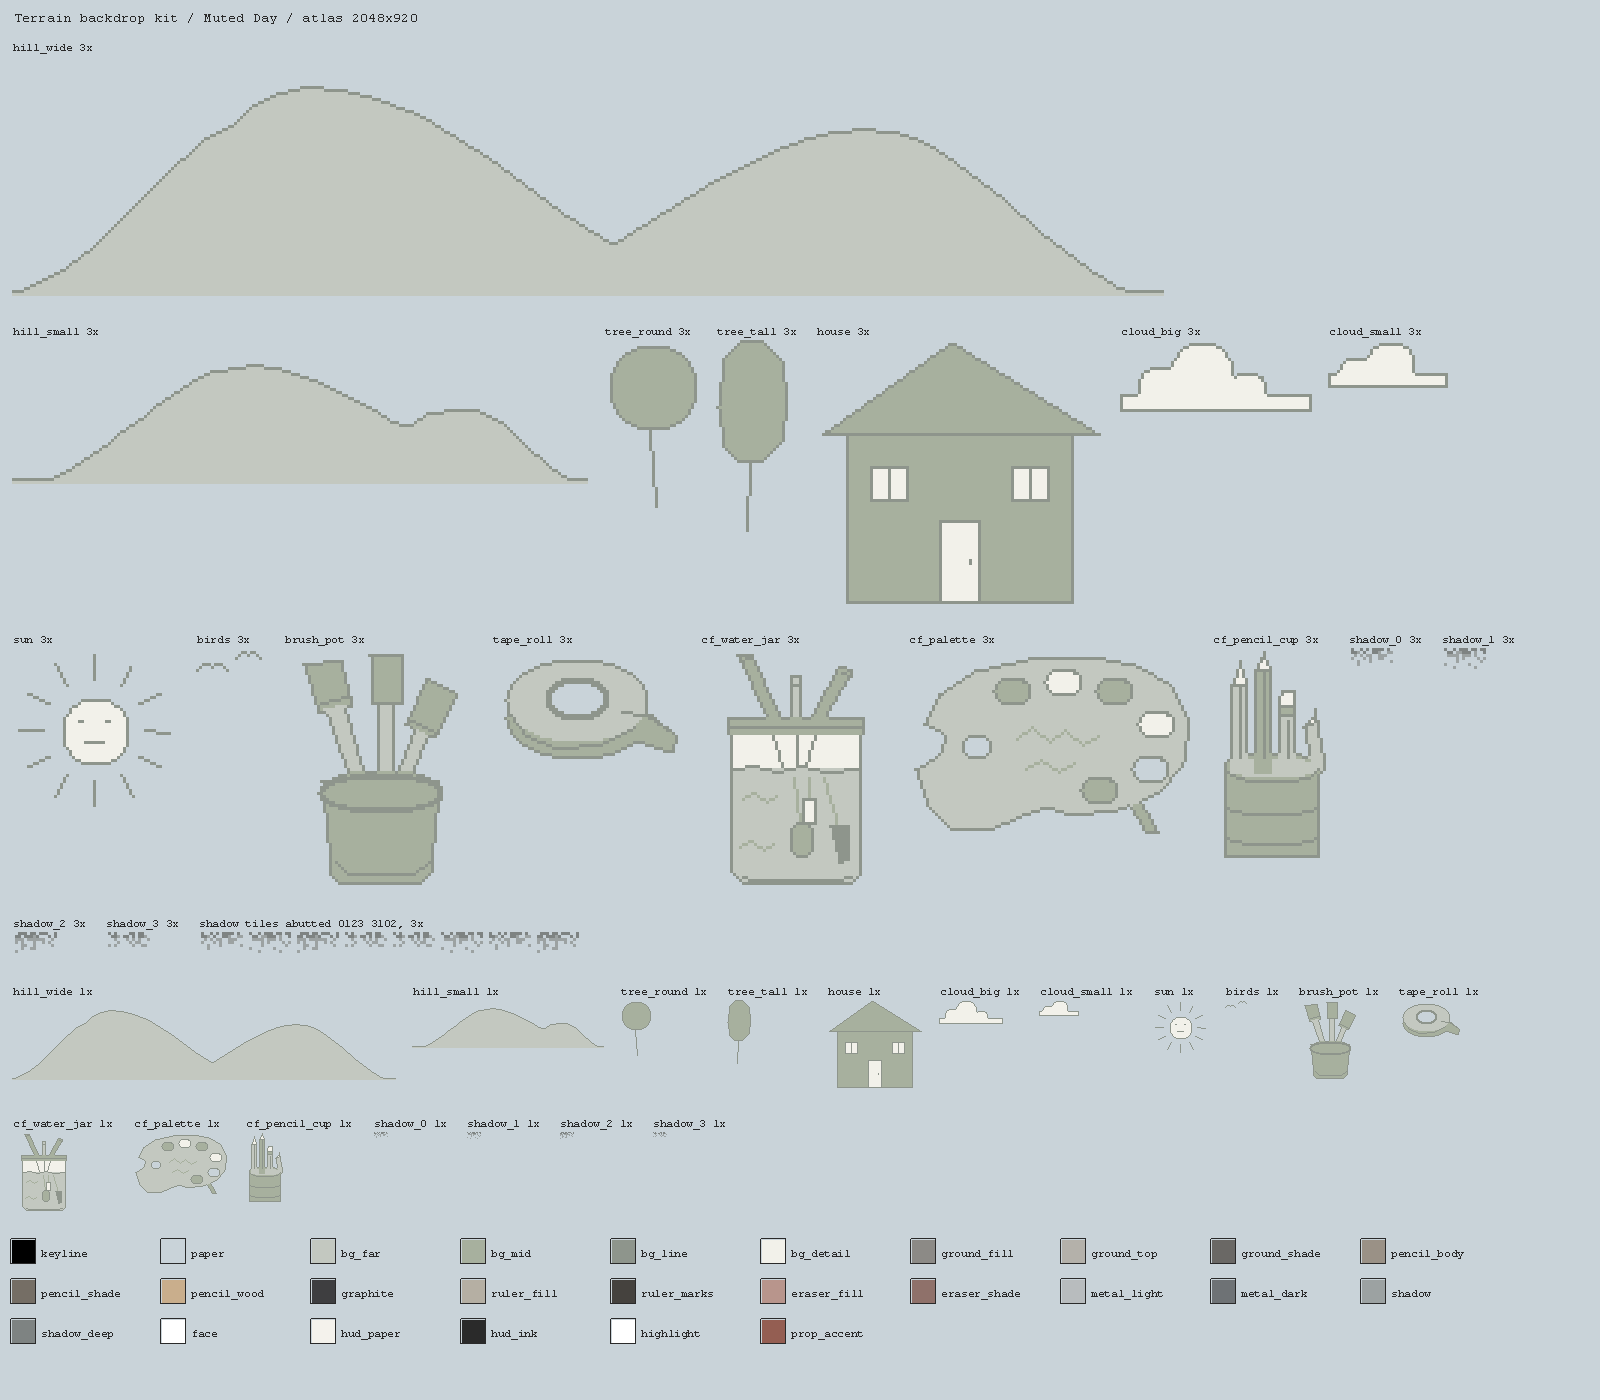
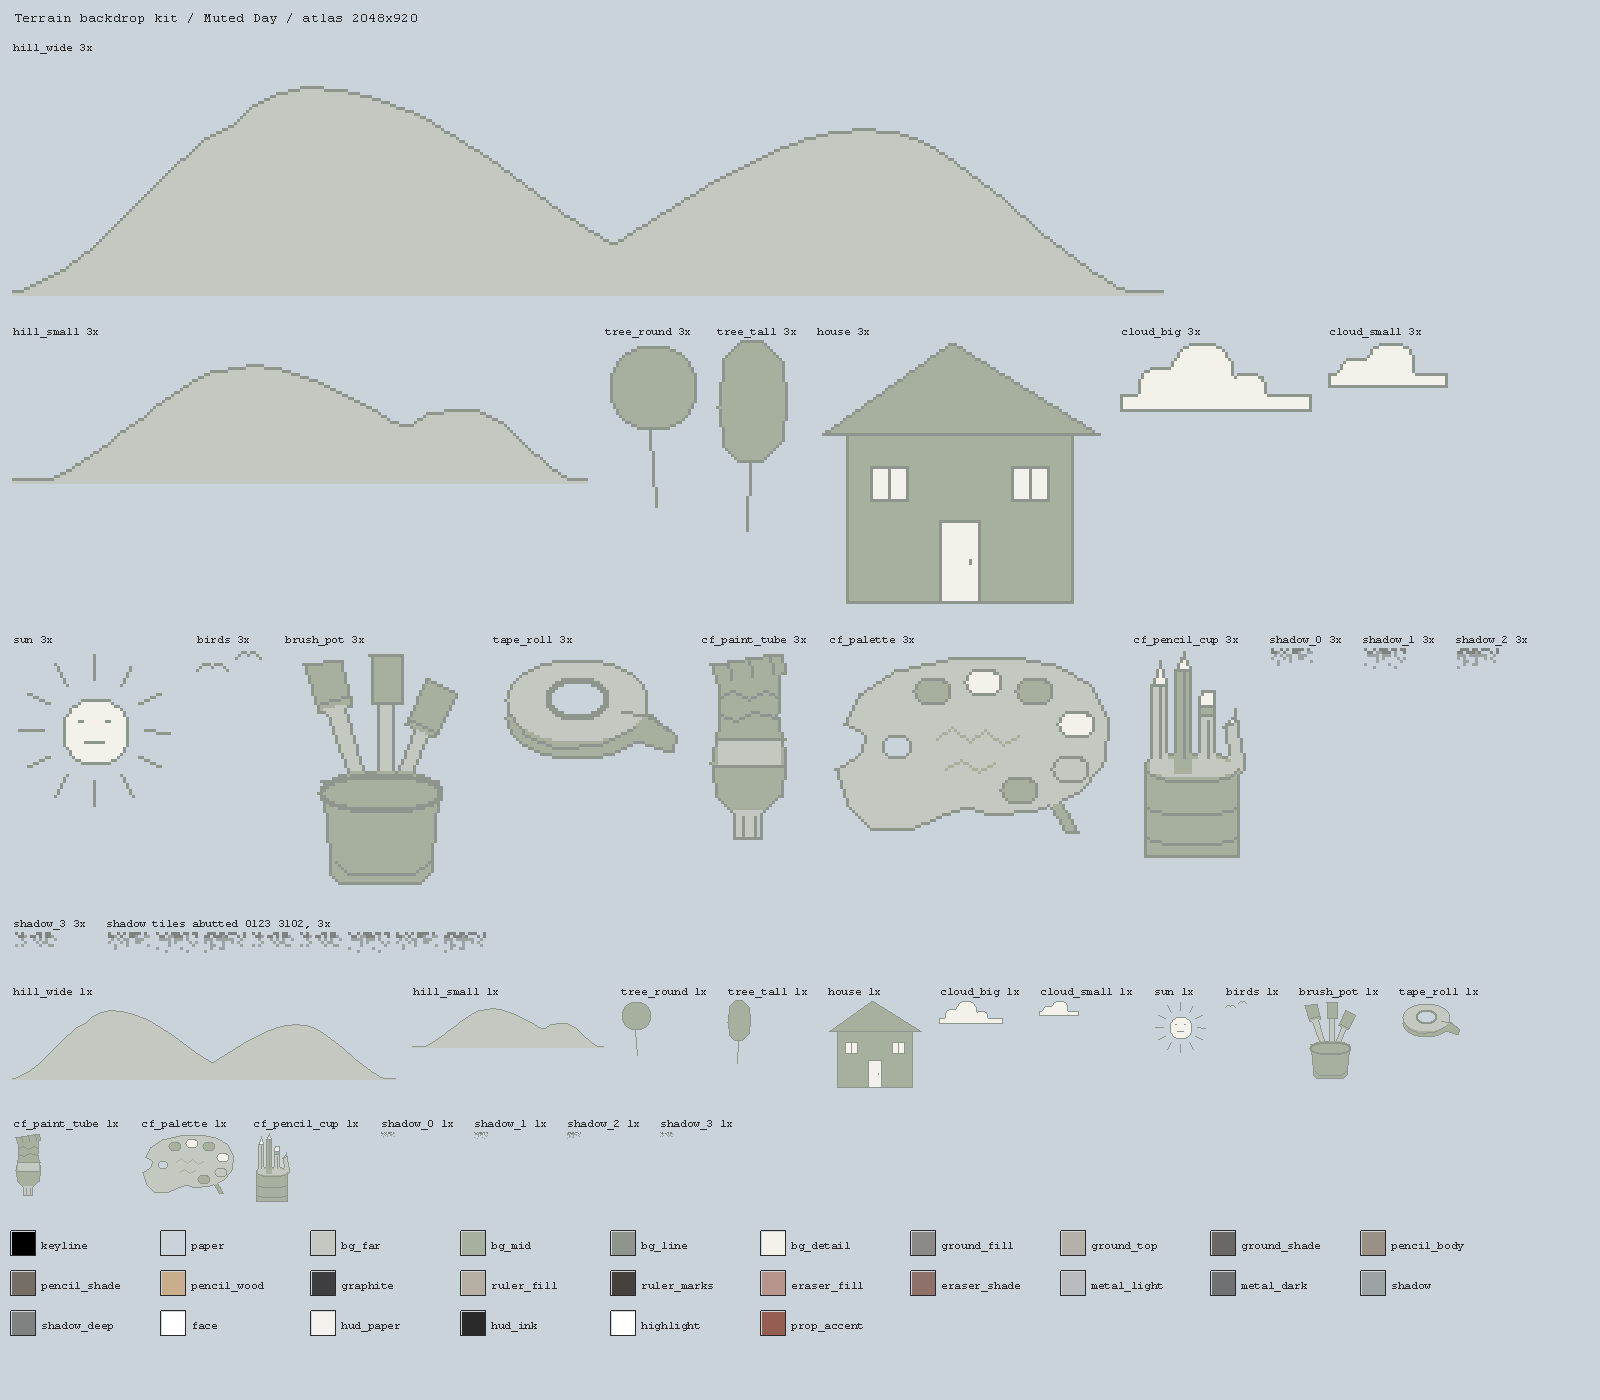
Swap Crossfeed's rinse jar for a squeezed paint tube (POL#16)
Review of the Crossfeed arena props. The water jar was a second pot of
three brush handles at the brush pot's own 256x320, one bench gap from it,
so the left baffle read as a rival mixer, and its pale glass band sat
behind players on a landing. It is replaced by cf_paint_tube: a 128x256
tube stood on its ribbed cap with a crimped end, two crumple lines and a
blank colour band, all in bg_far/bg_mid with no bg_detail. That keeps a
yellow player on the baffle readable in a 4P pane.

The palette's empty well was paper, the same as its thumb hole, so it read
as a second hole. It is now an outlined ring that shows the palette through.

The terrain probe, the level, the frame README and the arena-art section
of docs/polish-crossfeed.md now describe the tube. The atlas stays
2048x920.

Claude-Session: https://claude.ai/code/session_018kuv1FZCWLvNfPa4XRNm9N

diff --git a/scripts/acceptance/terrain/landmark_checks.h b/scripts/acceptance/terrain/landmark_checks.h
@@ -26,7 +26,7 @@ namespace
 	}
 
 	// Crossfeed's own landmarks (POL#16): a pencil cup on the left home roof,
-	// a water jar on the left baffle and an empty-welled palette on the right
+	// a squeezed-out paint tube on the left baffle and an empty-welled palette on the right
 	// home roof. They are far layers, after the clouds and before the hills,
 	// at native atlas size with each visible foot on its support, and as
 	// static as the shared kit.
@@ -39,7 +39,7 @@ namespace
 		};
 		const Prop props[]{
 			{"cf_pencil_cup", RectangleF(136.0f, 680.0f, 160.0f, 288.0f)},
-			{"cf_water_jar", RectangleF(792.0f, 624.0f, 256.0f, 320.0f)},
+			{"cf_paint_tube", RectangleF(856.0f, 688.0f, 128.0f, 256.0f)},
 			{"cf_palette", RectangleF(3136.0f, 712.0f, 384.0f, 256.0f)}
 		};
 		const SpriteSheet* sheet = world.render.sprite_sheet("terrain");

diff --git a/docs/polish-crossfeed.md b/docs/polish-crossfeed.md
@@ -870,8 +870,11 @@ sky: the kit's sun, two static clouds and two hills, the brush pot standing on
 the mixer and the tape roll on the right bench. What it lacked, now that every
 other Random arena carries landmarks of its own, was anything that says *this*
 desk. The answer is the painter's mixing kit that a centre called the mixer
-implies: the water jar the brushes are rinsed in, the cup the pencils live in
-and the palette the colours would be mixed on, if there were any.
+implies: the paint tube squeezed empty, the cup the pencils live in and the
+palette the colours would be mixed on, if there were any. A rinse jar with
+brushes in it was tried first and dropped in review: it was a second pot of
+three handles at the brush pot's size, one bench gap from it, so the left
+baffle read as a rival mixer and the centre lost its one landmark.
 
 **Props.** Three new terrain frames, drawn in the recipe
 ([terrain.json](../game/art/terrain/terrain.json)) with the backdrop roles only
@@ -879,9 +882,9 @@ and bg_line outlines, as crude staircase drawings on the cell grid:
 
 | Frame | Cells | Drawing |
 |---|---|---|
-| `cf_water_jar` | 64x80 | screw-lid glass jar, three handles standing out of it, bristles down; above the wavy water line the glass is pale, below it the murk shows the bristles knocked sideways where the handles cross the surface, and two lazy swirls |
+| `cf_paint_tube` | 32x64 | paint tube squeezed out and stood on its ribbed cap, crimped end up with three crimp ticks, two crumple lines across the flattened body and a blank colour band where its colour would be named |
 | `cf_pencil_cup` | 40x72 | plain cup with two sagging bands, holding two sharpened pencils of different heights, one upside down on its eraser and one stub leaning out |
-| `cf_palette` | 96x64 | kidney palette with a thumb hole and notch, propped upright on a stick; its wells hold only greys, and one well stands empty, the last palette slot from [the backstory](backstory.md) |
+| `cf_palette` | 96x64 | kidney palette with a thumb hole and notch, propped upright on a stick; its wells hold only greys, and one well stands empty, an outlined ring the palette shows through (so it cannot be mistaken for the paper-filled thumb hole), the last palette slot from [the backstory](backstory.md) |
 
 **Layering and placement.** All three are far layers, drawn after the clouds
 and before the hills, at native atlas size (one texel per world unit, as the
@@ -890,17 +893,20 @@ brush pot is), each with its visible foot on a support so nothing floats:
 | Visual | Rectangle (X, Y, W, H) | Stands on |
 |---|---|---|
 | `cf_pencil_cup` | 136, 680, 160, 288 | left home roof (Y 960) |
-| `cf_water_jar` | 792, 624, 256, 320 | left baffle (Y 940); the jar body stays inside the baffle's 800-1040 |
+| `cf_paint_tube` | 856, 688, 128, 256 | left baffle (Y 940), centred on the baffle's 800-1040 |
 | `cf_palette` | 3136, 712, 384, 256 | right home roof (Y 960) |
 
 The pencil cup and palette bookend the arena above the two homes, where only
-roof-jumpers stand in front of them; the jar answers the brush pot across the
-left bench gap and leaves the tape roll alone on the right bench, as the
-accepted composition had it. The left home keeps its cloud, the right its sun.
+roof-jumpers stand in front of them; the tube is a narrow upright on the left
+baffle, a third the width of the brush pot, so the brush pot stays the centre's
+one big landmark and the tape roll keeps the right bench, as the accepted
+composition had it. The left home keeps its cloud, the right its sun.
 None of the props reaches the hills or overlaps another prop. The palette has
-no flat top, the jar's lid overhangs its body by one cell and the cup's rim is
-a curve, so none reads as a ledge. All are quiet bg_far/bg_mid fills; the only
-bg_detail is the jar's glass and three palette wells, the value the clouds
+no flat top, the tube's crimped end is tilted and the cup's rim is a curve, so
+none reads as a ledge. All are quiet bg_far/bg_mid fills. The tube carries no
+bg_detail because players fight on the baffle in front of it, and a pale band
+behind a yellow player lost contrast in the seed 0 4P review. The only
+bg_detail is two palette wells and the pencil points, the value the clouds
 already use.
 
 **Material palette.** Unchanged. The accepted mix stays: ground on the floors,
@@ -926,7 +932,9 @@ beside the brush pot and tape roll. Run on 2026-11-14 in Debug: `terrain`,
 `check-level-editor.ps1` (editor round trip, mirror pairs, symmetry report)
 and `check-stage-registration.ps1`, the link check and the lint.
 Screenshots were reviewed at 1P and 4P on seeds 7 and 0, and as the timelapse
-arena overview.
+arena overview. The same cases and checks were run again after the review that
+swapped the jar for the tube and redrew the empty well, and the `terrain` case
+failed as it should when the tube was moved 4 units.
 
 **Still a human check.** How the props look on a real GPU, and whether they
 help or crowd the panes in play, especially the jar behind a fight on the left

diff --git a/game/art/terrain/README.md b/game/art/terrain/README.md
@@ -39,9 +39,9 @@ gutter.
 | `birds` | 96x32 | two bg_line gull strokes |
 | `brush_pot` | 256x320 | quiet stationery pot with three differently shaped brushes, flat fills and a plain rim with no highlights; bg_line outlines distinguish it from walkable terrain |
 | `tape_roll` | 256x160 | flat roll with a paper core and short peeled end, no shading inside the core or on the end; the same backdrop roles, without team colours or text |
-| `cf_water_jar` | 256x320 | Crossfeed: screw-lid jar, three handles out of it, pale glass above a wavy water line, bristles knocked sideways below it, two murky swirls |
+| `cf_paint_tube` | 128x256 | Crossfeed: squeezed-out paint tube standing on its ribbed cap, crimped end up, two crumple lines and a blank colour band |
 | `cf_pencil_cup` | 160x288 | Crossfeed: plain banded cup with two sharpened pencils, one upside down on its eraser and a leaning stub |
-| `cf_palette` | 384x256 | Crossfeed: kidney palette propped on a stick, thumb hole and notch, grey wells and one empty |
+| `cf_palette` | 384x256 | Crossfeed: kidney palette propped on a stick, thumb hole and notch, grey wells and one empty ring |
 | `shadow_0`..`shadow_3` | 64x32 | shadow_deep specks dense in the top two rows, shadow specks thinning to none in the last; columns 0 and 15 empty so tiles abut in any order |
 | `swatch_<role>` | 4x4 | one opaque block per palette role |
 
